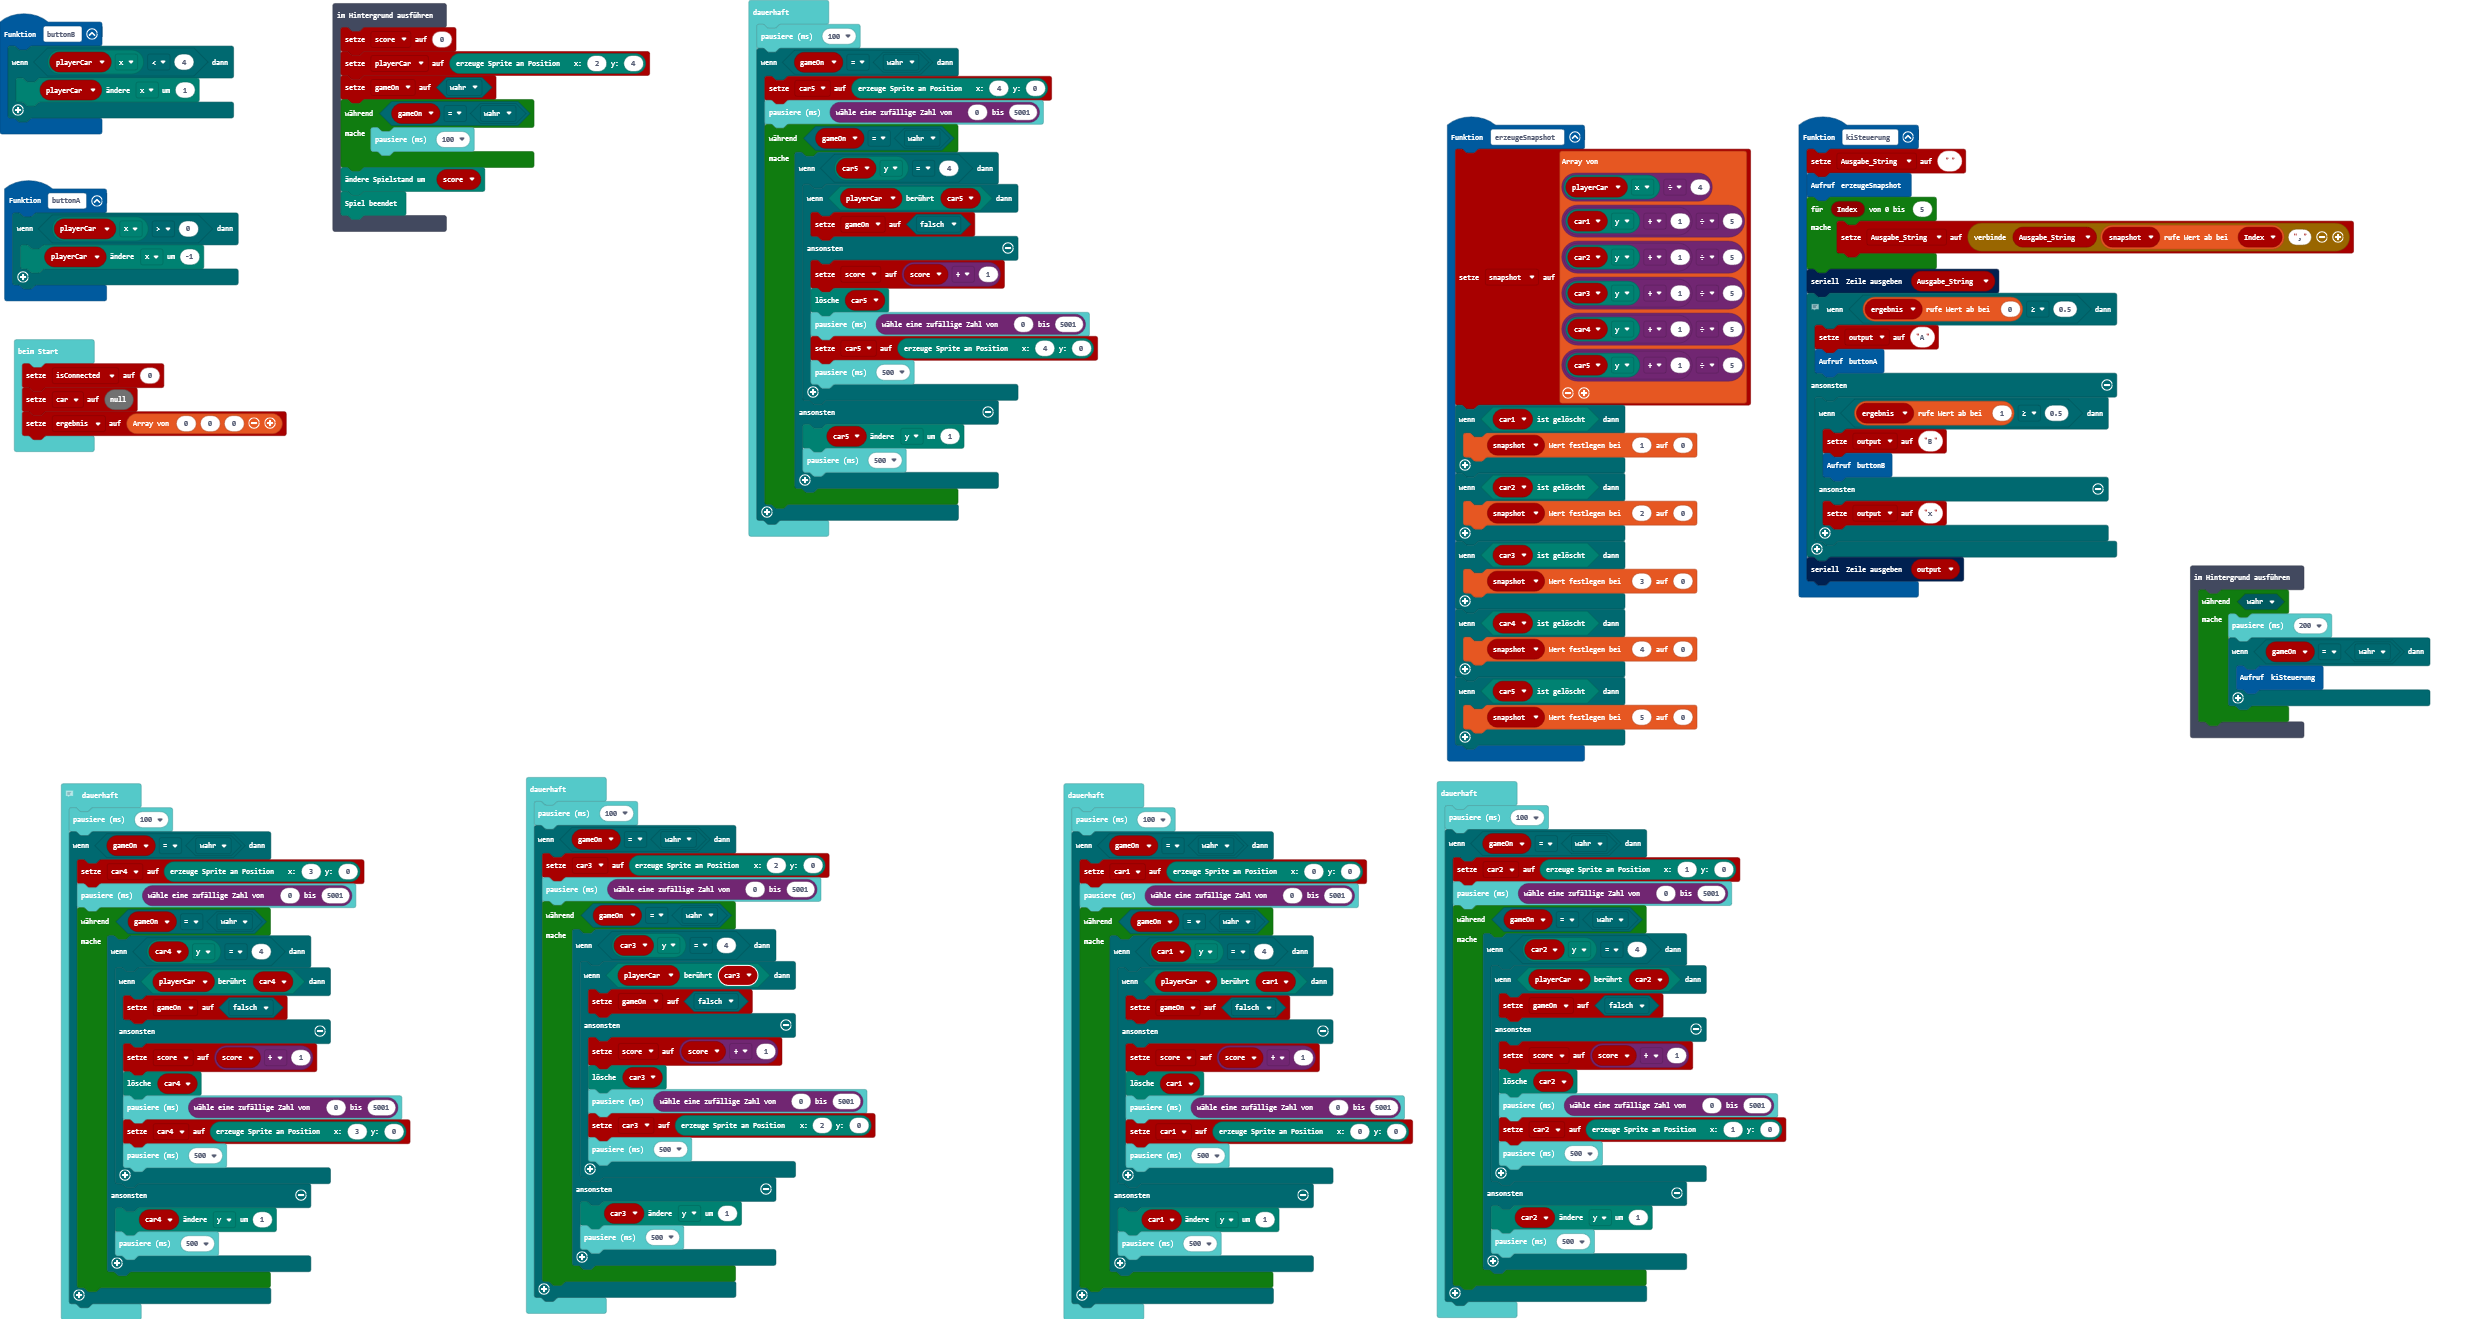
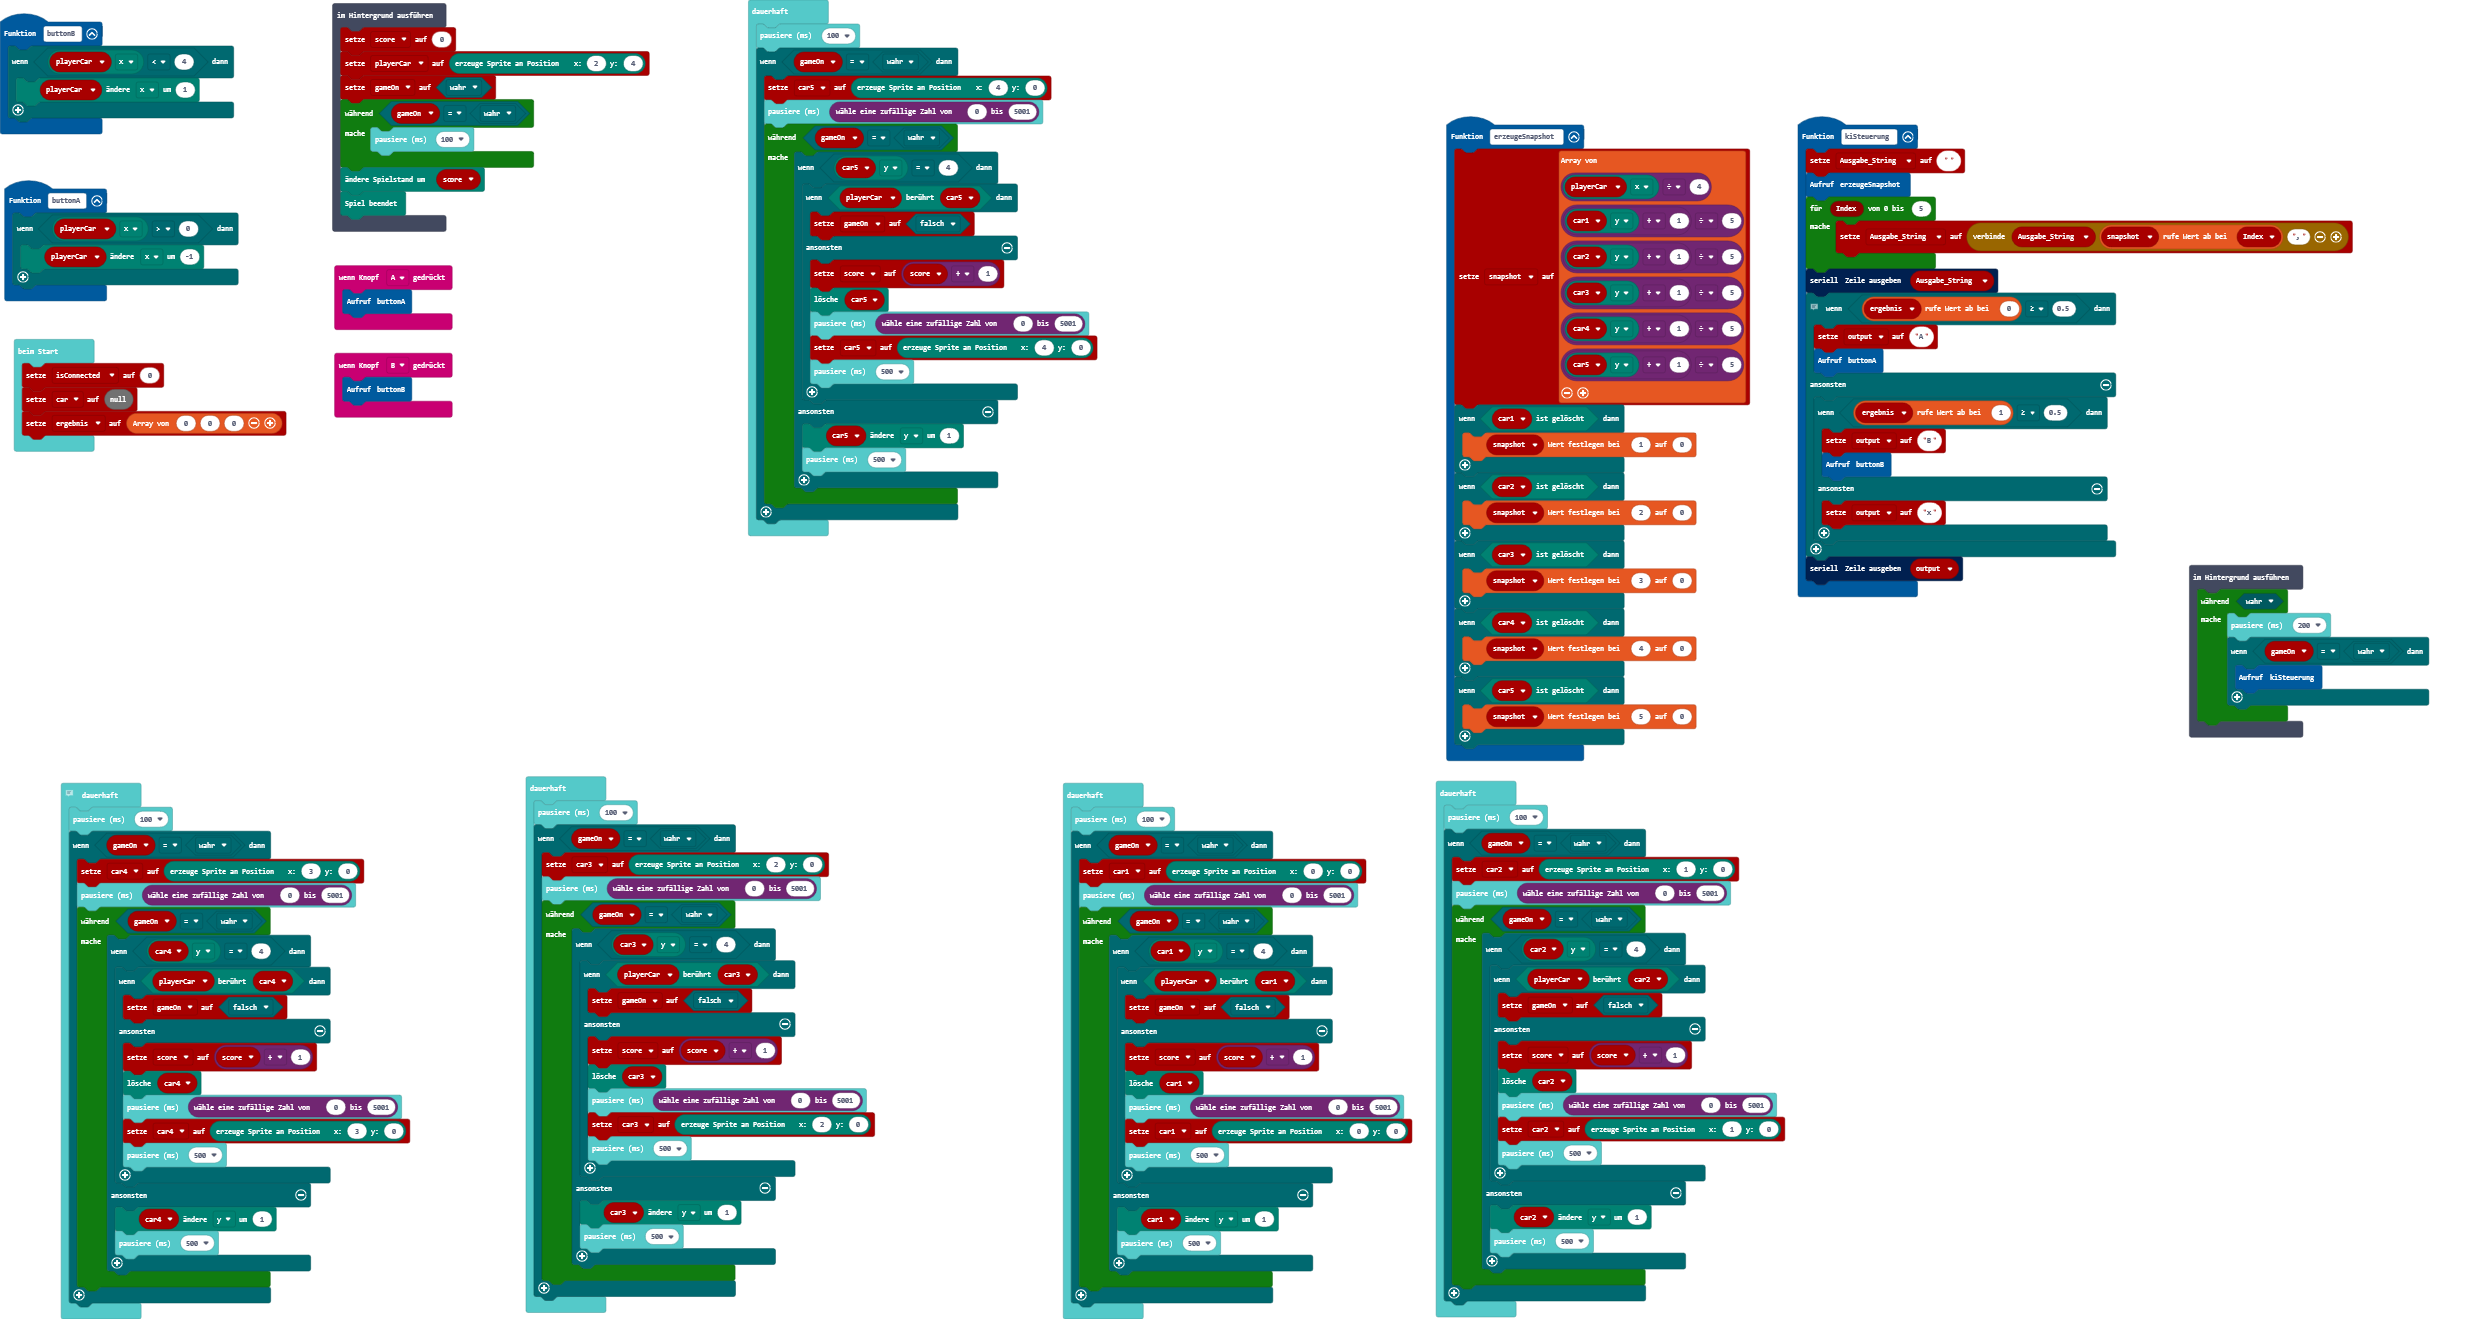
Aktualisiere main.blocks, main.ts

diff --git a/main.ts b/main.ts
@@ -19,6 +19,9 @@ function kiSteuerung () {
     }
     serial.writeLine(output)
 }
+input.onButtonPressed(Button.A, function () {
+    buttonA()
+})
 function buttonB () {
     if (playerCar.get(LedSpriteProperty.X) < 4) {
         playerCar.change(LedSpriteProperty.X, 1)
@@ -29,6 +32,9 @@ function buttonA () {
         playerCar.change(LedSpriteProperty.X, -1)
     }
 }
+input.onButtonPressed(Button.B, function () {
+    buttonB()
+})
 function erzeugeSnapshot () {
     snapshot = [playerCar.get(LedSpriteProperty.X) / 4, (car1.get(LedSpriteProperty.Y) + 1) / 5, (car2.get(LedSpriteProperty.Y) + 1) / 5, (car3.get(LedSpriteProperty.Y) + 1) / 5, (car4.get(LedSpriteProperty.Y) + 1) / 5, (car5.get(LedSpriteProperty.Y) + 1) / 5]
     if (car1.isDeleted()) {
